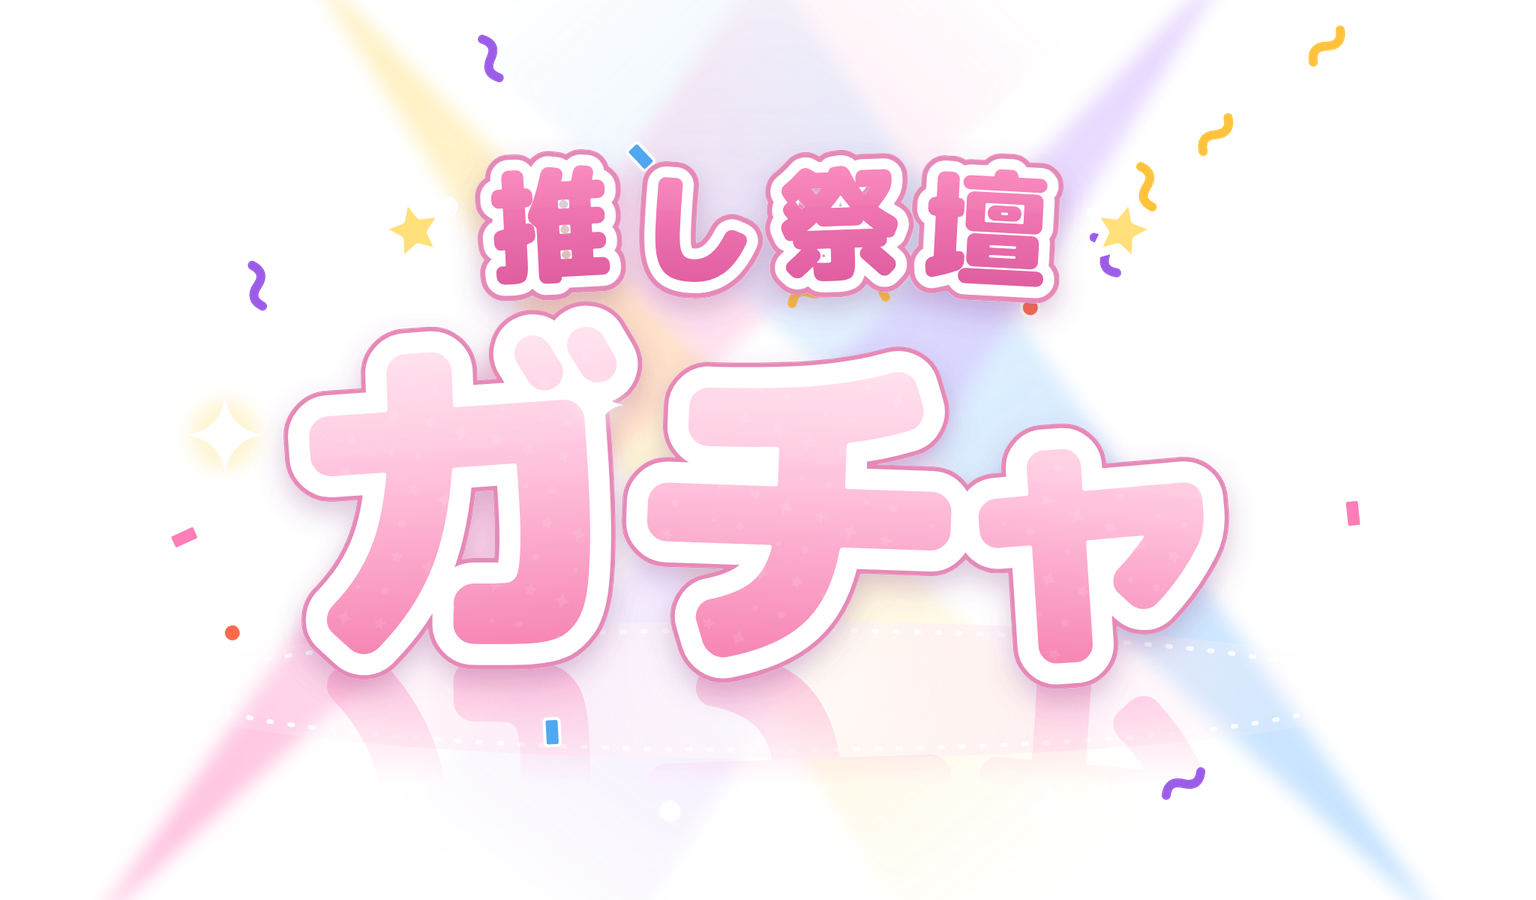
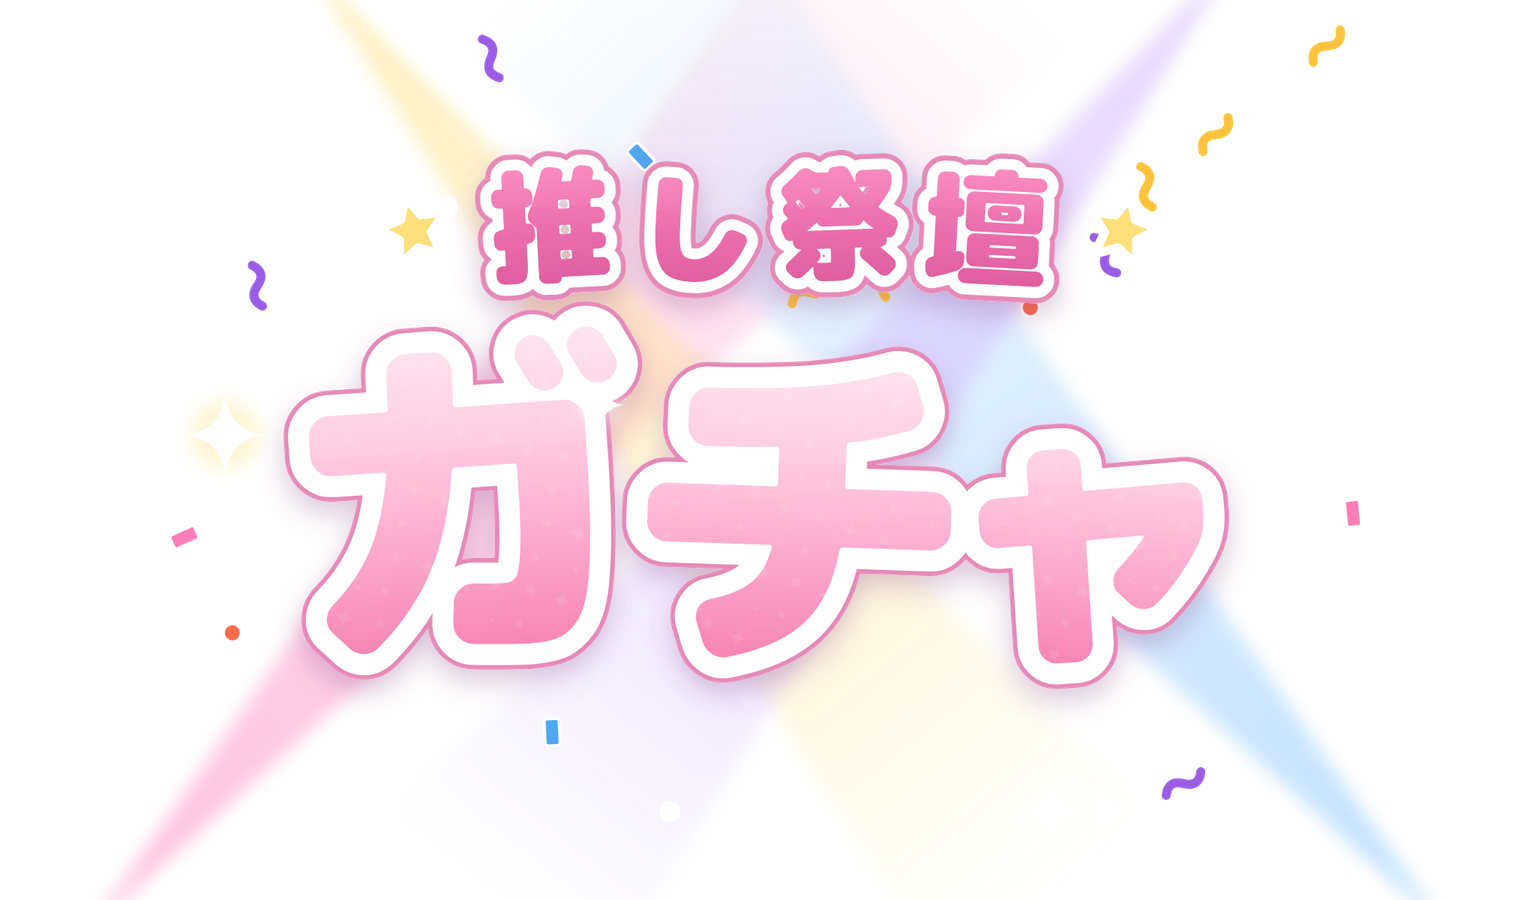
広告の延長は同じ曲をあと5回（ハートは維持・1ライブ1回）、重ね強化がノルマ減少・運・グッズ生成にも効く、ひなこはのお料理配信にこはる、ロゴの床をなくす
- 延長: 同じ曲・同じノルマのまま あと5回。「曲の終わりに」の分は本当の曲の終わりにもう一度入るので、失敗時の分は戻す
- ノルマ減少は ×重ねた数（1つで最大90%）、効くのは強い順に2つまで、下限はノルマの40%のまま
- 運は ×重ねた数、グッズ生成は重ねた数だけ出す
- タイトルロゴの文字の下の床（楕円・点線・映り込み）をなくす

Changed region(s): [[0.2188, 0.7156, 0.4062, 0.84], [0.6562, 0.7467, 0.7812, 0.84], [0.4375, 0.7467, 0.5625, 0.8089]]

diff --git a/lib/logic/run.dart b/lib/logic/run.dart
@@ -276,6 +276,7 @@ class Run {
       ..rerollMax = rerollMax
       ..rerolls = rerolls
       ..continueUsed = continueUsed
+      ..lastPaydayBonus = lastPaydayBonus
       ..halfThisSong = halfThisSong
       ..doubleThisSong = doubleThisSong
       ..boost.addAll(boost)
@@ -352,7 +353,8 @@ class Run {
     return count.isEmpty ? null : (count.entries.toList()..sort((a, b) => b.value.compareTo(a.value))).first.key;
   }
 
-  int get luck => luckBonus + figs.fold(0, (s, f) => s + (f.def.effect<Luck>()?.v ?? 0));
+  // stacking a lucky goods makes it luckier (×stack), like every other number on it
+  int get luck => luckBonus + figs.fold(0, (s, f) => s + (f.def.effect<Luck>()?.v ?? 0) * f.stack);
 
   // ── payday ──
   int get turnsToPayday => turnsPerSong - songTurn;
@@ -372,11 +374,16 @@ class Run {
 
   static const encoreGrowth = 1.5;
 
+  /// The quota cutters: stacking one cuts more (its % ×stack, at most 90% from one goods), but only
+  /// the [maxDiscounts] strongest count and the quota never drops below 40% of itself.
   int get due {
+    final cuts = [
+      for (final x in figs)
+        if (x.def.effect<PaydayDiscount>() case final d?) math.min(90, d.pct * x.stack),
+    ]..sort((a, b) => b.compareTo(a));
     var f = 1.0;
-    for (final x in figs) {
-      final d = x.def.effect<PaydayDiscount>();
-      if (d != null) f *= 1 - d.pct / 100;
+    for (final pct in cuts.take(maxDiscounts)) {
+      f *= 1 - pct / 100;
     }
     final wall = paydaysPaid == 2 ? rules.thirdDueMult : 1.0;
     return (baseDue(paydaysPaid) * rules.dueMult * wall * math.max(f, 0.4)).round() + carriedDebt;
@@ -842,12 +849,15 @@ class Run {
       final f = cells[i];
       final sp = f?.def.effect<SpawnEveryN>();
       if (sp == null || f!.age % sp.n != 0) continue;
-      final empty = emptyCells;
-      if (empty.isEmpty) continue;
-      final at = rng.pick(empty);
-      final nf = _newFig(pullOne(maxRarity: Rarity.rare));
-      cells[at] = nf;
-      steps.add(Step(StepKind.spawn, at, fig: nf));
+      // stacked, it puts out that many at a time (as many as there are empty cells)
+      for (var k = 0; k < f.stack; k++) {
+        final empty = emptyCells;
+        if (empty.isEmpty) break;
+        final at = rng.pick(empty);
+        final nf = _newFig(pullOne(maxRarity: Rarity.rare));
+        cells[at] = nf;
+        steps.add(Step(StepKind.spawn, at, fig: nf));
+      }
     }
   }
 
@@ -859,6 +869,7 @@ class Run {
     final before = coins;
     final bonus = paydayBonus;
     coins += bonus;
+    lastPaydayBonus = bonus;
     final d = due;
     if (coins < d) return PaydayResult(d, bonus, before, false);
     coins -= d;
@@ -874,19 +885,18 @@ class Run {
     return PaydayResult(d, bonus, before, true);
   }
 
-  /// The once-per-run rescue (rewarded ad): this payday's bill moves to the next one.
+  /// The once-per-live rescue (rewarded ad) when a song comes up short: [extraSpins] more spins in
+  /// the same song against the same quota. The hearts made so far stay; the 「曲の終わりに +N」 goods
+  /// paid in at the short payday come back out, since they pay again when the song really ends.
   bool get canPostpone => !continueUsed && !rules.noContinue;
+  static const extraSpins = 5;
+  int lastPaydayBonus = 0; // what the goods paid in at the last payday
 
   void postpone() {
     continueUsed = true;
-    carriedDebt = due;
-    paydaysPaid++;
-    songTurn = 0;
-    repulls = repullMax;
-    halfThisSong = false;
-    doubleThisSong = false;
-    rareSong = false;
-    idolSong = null;
+    coins = math.max(0, coins - lastPaydayBonus);
+    lastPaydayBonus = 0;
+    songTurn = math.max(0, turnsPerSong - extraSpins);
   }
 
   // ── 妨害 (a scalper barges in before the hearts are counted) ──

diff --git a/test/run_test.dart b/test/run_test.dart
@@ -1,3 +1,5 @@
+import 'dart:math' as math;
+
 import 'package:flutter_test/flutter_test.dart';
 import 'package:oshi_saidan/logic/defs.dart';
 import 'package:oshi_saidan/logic/figures.dart';
@@ -28,7 +30,7 @@ void main() {
     expect(r.cells[10], isNull);
   });
 
-  test('payday takes coins, fails when short, and can be postponed once', () {
+  test('payday takes coins, fails when short, and the ad gives 5 more spins in the same song, once', () {
     final r = Run(seed: 3)..coins = 100;
     r.songTurn = 5;
     expect(r.paydayNow, isTrue);
@@ -37,11 +39,77 @@ void main() {
     expect(r.coins, 100 - r.baseDue(0));
     r
       ..songTurn = 5
-      ..coins = 0;
+      ..coins = 7;
+    final dueBefore = r.due;
     expect(r.payday().paid, isFalse);
+    expect(r.canPostpone, isTrue);
     r.postpone();
-    expect(r.paydaysPaid, 2);
-    expect(r.due, r.baseDue(2) + r.baseDue(1));
+    // the same song against the same quota, the hearts kept, 5 spins to go
+    expect(r.paydaysPaid, 1);
+    expect(r.due, dueBefore);
+    expect(r.coins, 7);
+    expect(r.turnsToPayday, Run.extraSpins);
+    expect(r.paydayNow, isFalse);
+    // and never again this live
+    expect(r.canPostpone, isFalse);
+  });
+
+  test('the extension takes back what the 「曲の終わりに」 goods paid in, since they pay again', () {
+    final r = Run(seed: 3);
+    r.place(figureById.values.firstWhere((d) => d.has<OnPaydayGain>()), 0);
+    final bonus = r.paydayBonus;
+    expect(bonus, greaterThan(0));
+    r
+      ..paydaysPaid = 2 // a quota well above what the goods pay in
+      ..songTurn = 5
+      ..coins = 3;
+    expect(r.payday().paid, isFalse);
+    expect(r.coins, 3 + bonus);
+    r.postpone();
+    expect(r.coins, 3);
+  });
+
+  test('stacking makes quota cutters, luck and spawners stronger; only two cutters count', () {
+    final cut = figureById.values.firstWhere((d) => d.has<PaydayDiscount>());
+    final pct = cut.effect<PaydayDiscount>()!.pct;
+    final r = Run(seed: 3);
+    final base = r.due;
+    r.place(cut, 0);
+    expect(r.due, (base * (1 - pct / 100)).round());
+    r.overwrite(cut, 0); // stacked: ×2
+    expect(r.due, (base * math.max(0.4, 1 - math.min(90, pct * 2) / 100)).round());
+
+    final lucky = figureById['gacha_charm']!;
+    final l = Run(seed: 3);
+    l.place(lucky, 0);
+    final one = l.luck;
+    l.overwrite(lucky, 0);
+    expect(l.luck, one * 2);
+
+    final spawner = figureById['blind_bag']!;
+    final n = spawner.effect<SpawnEveryN>()!.n;
+    final s1 = Run(seed: 3)..place(spawner, 0);
+    final s2 = Run(seed: 3)
+      ..place(spawner, 0)
+      ..overwrite(spawner, 0);
+    for (var k = 0; k < n; k++) {
+      s1.endTurn();
+      s2.endTurn();
+    }
+    expect(s1.figs.length, 2);
+    expect(s2.figs.length, 3);
+  });
+
+  test('three quota cutters on the altar: only the two strongest count', () {
+    final cuts = figureById.values.where((d) => d.has<PaydayDiscount>()).toList();
+    final r = Run(seed: 3);
+    final base = r.due;
+    for (var i = 0; i < 3; i++) {
+      r.place(cuts[i % cuts.length], i);
+    }
+    final pcts = [for (var i = 0; i < 3; i++) cuts[i % cuts.length].effect<PaydayDiscount>()!.pct]..sort((a, b) => b.compareTo(a));
+    final f = pcts.take(2).fold(1.0, (a, p) => a * (1 - p / 100));
+    expect(r.due, (base * math.max(0.4, f)).round());
   });
 
   test('expanding the shelf keeps figures in their row and column', () {

diff --git a/lib/ui/game_screen/cards.dart b/lib/ui/game_screen/cards.dart
@@ -173,7 +173,7 @@ extension on _GameScreenState {
         children: [
           FittedBox(fit: BoxFit.scaleDown, child: Text(en ? '$short Hearts short...' : 'ハートが あと $short 足りない…', style: outlined(22, C.red, stroke: Colors.white))),
           const SizedBox(height: 12),
-          if (kAdsEnabled && g.run.canPostpone) _wide(PopButton('▶ 広告を見て延長！', onTap: g.watchAdToPostpone, color: C.mint, fontSize: 17)),
+          if (kAdsEnabled && g.run.canPostpone) _wide(PopButton('▶ 広告を見て あと5回！', onTap: g.watchAdToPostpone, color: C.mint, fontSize: 17)),
           const SizedBox(height: 10),
           _wide(PopButton('おわる', onTap: g.giveUp, color: Colors.blueGrey, filled: false, fontSize: 16)),
         ],

diff --git a/lib/ui/lines.dart b/lib/ui/lines.dart
@@ -81,8 +81,8 @@ const lineFail = [
   'もう、推しが泣いちゃいますよ！',
   'リハーサルからやり直しです！',
 ];
+// the ad's extension: the same song goes on for a few more spins (these takes say nothing of a next song)
 const linePostpone = [
-  'しかたないですね。今回だけですよ。次の曲で、まとめて取り返しましょう',
   '特別に、待ってあげます。次は、ちゃんと届けてくださいね',
   '今回だけ、見なかったことにします。次でお願いしますよ',
 ];

diff --git a/lib/ui/controller.dart b/lib/ui/controller.dart
@@ -1169,12 +1169,15 @@ class GameController extends ChangeNotifier {
     if (!await Ads.instance.show(postpone)) _adNotReady();
   }
 
+  /// After the ad: back into the same song for [Run.extraSpins] more spins (hearts kept).
   void postpone() {
     if (!run.canPostpone) return;
-    Bgm.play('bgm_clear');
     run.postpone();
+    payday = null;
+    coinsShown = run.coins;
+    Bgm.play('bgm_${machine.bgm}'); // the song picks up again
+    phase = Phase.ready;
     say(0, pick(linePostpone));
-    _openShop();
     notifyListeners();
   }
 

diff --git a/test/deck_payoffs_test.dart b/test/deck_payoffs_test.dart
@@ -44,8 +44,9 @@ void main() {
   test('the cooking stream earns more for every こはる on the altar', () {
     final few = _altar(['こはる'], 'hinakoha_stream').endTurn().total;
     final many = _altar(['こはる', 'こはる', 'こはる', 'こはる'], 'hinakoha_stream').endTurn().total;
-    expect(few, 2 + 3 + 5);
-    expect(many, 8 + 3 + 20);
+    // it is a こはる goods itself, so it counts itself too
+    expect(few, 2 + 3 + 10);
+    expect(many, 8 + 3 + 25);
   });
 
   test('they count toward the 4 on the altar', () {

diff --git a/lib/l10n/en_ui_game.dart b/lib/l10n/en_ui_game.dart
@@ -46,7 +46,7 @@ const enUiGame = <String, String>{
   '曲の終わりのおまけ ': 'End-of-song bonus ',
   'ハートを届ける！': 'Deliver the Hearts!',
   'ノルマ未達成…': 'Quota missed...',
-  '▶ 広告を見て延長！': '▶ Watch an ad to extend!',
+  '▶ 広告を見て あと5回！': '▶ Watch an ad: 5 more spins!',
   'おわる': 'End',
   'ライブ大成功！': 'Live success!',
   'アンコールへ！': 'On to the encore!',

diff --git a/lib/logic/figures.dart b/lib/logic/figures.dart
@@ -133,7 +133,7 @@ const figures = <FigureDef>[
     name: 'ひなこはのお料理配信',
     emoji: '🍳',
     rarity: Rarity.legend,
-    tags: ['ひなた', 'ファン'], cast: ['ひなた', 'こはる'],
+    tags: ['ひなた', 'こはる', 'ファン'], cast: ['ひなた', 'こはる'],
     effects: [Add(3), AddPerShelfTag('こはる', 5)],
   ),
   FigureDef(
